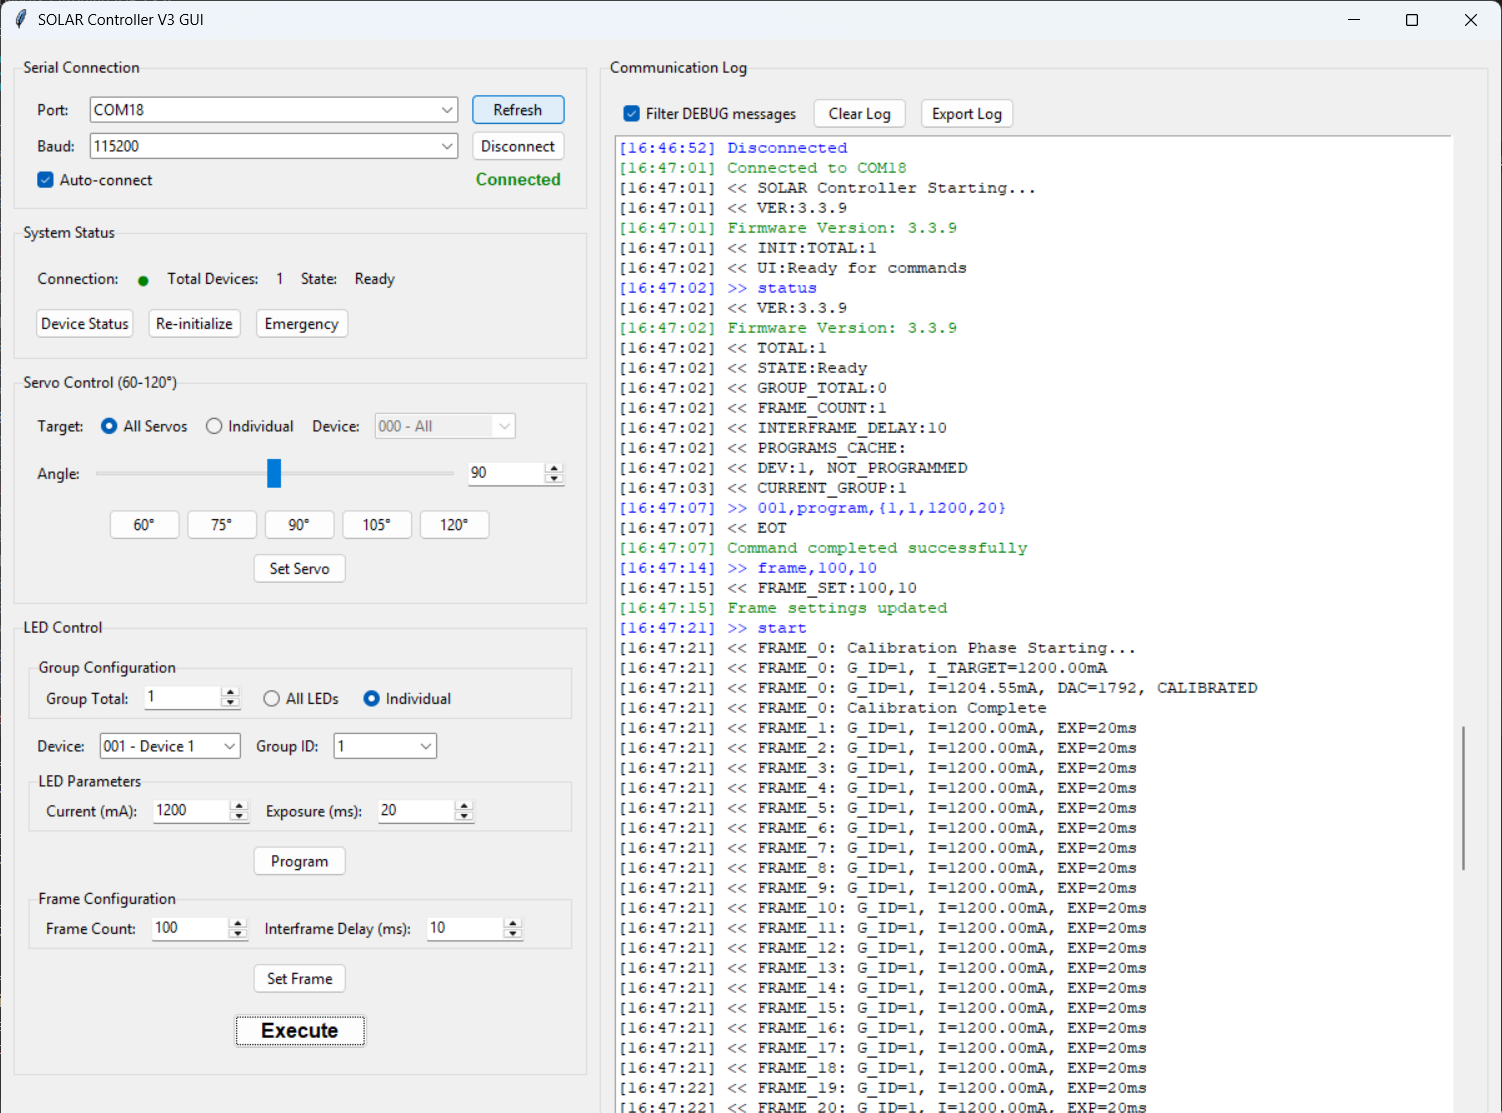
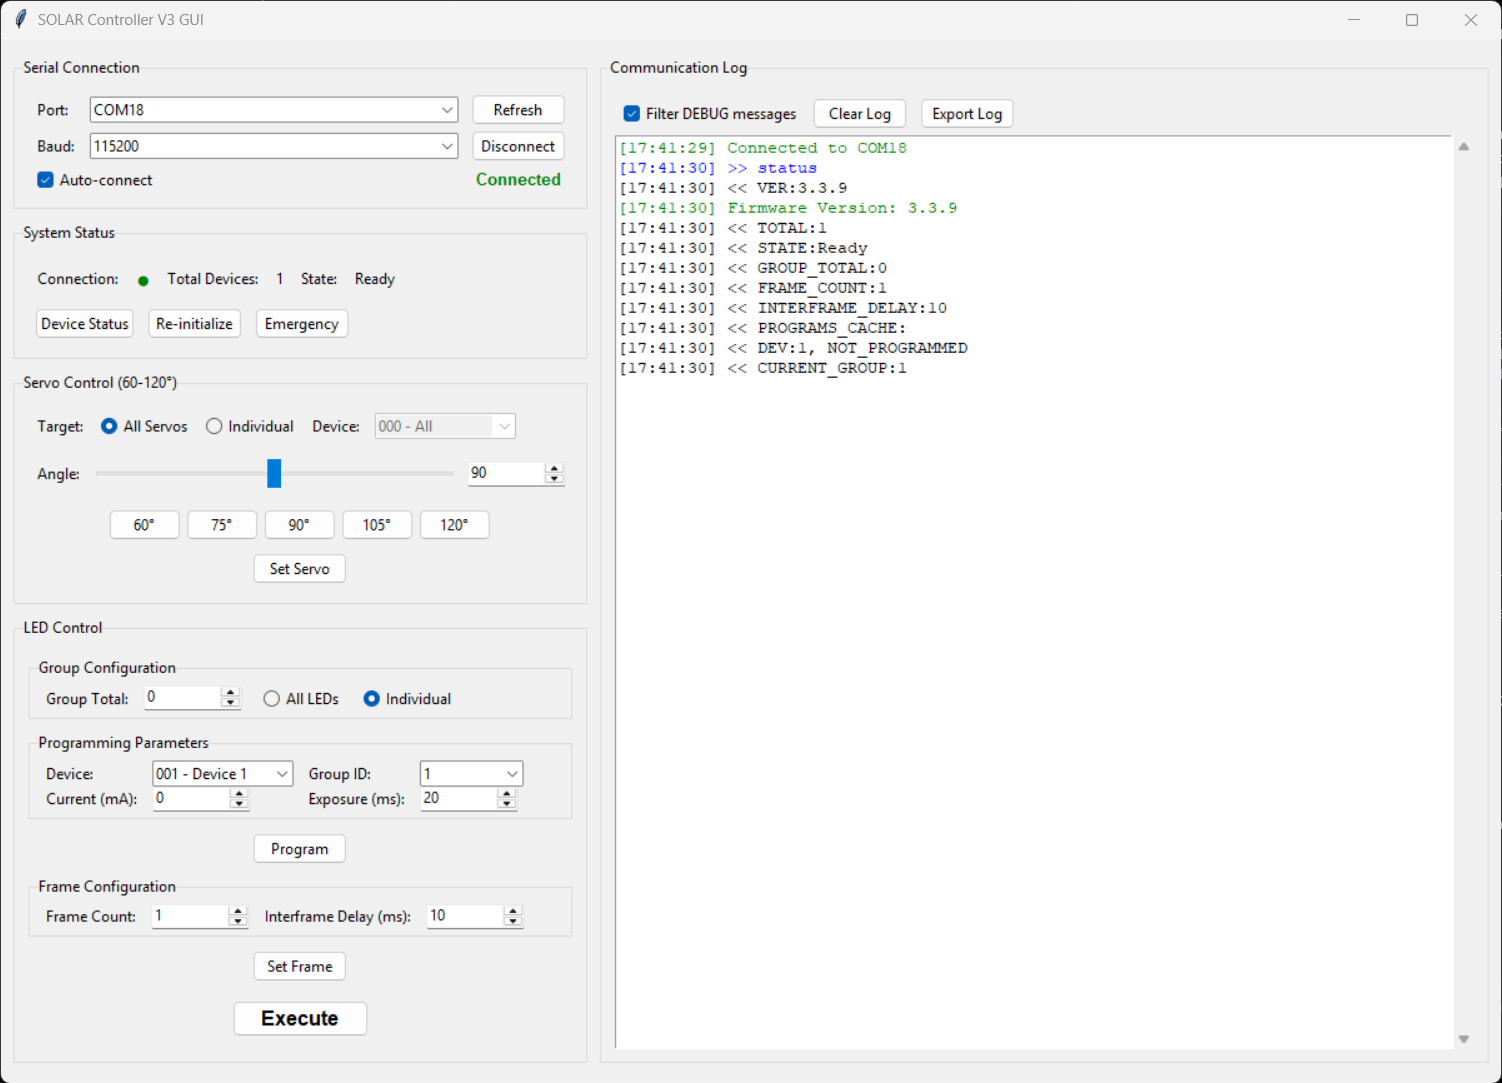
GUI image udpates

diff --git a/SOLAR_GUI_V3.py b/SOLAR_GUI_V3.py
@@ -20,7 +20,7 @@ class SolarController:
     def __init__(self, root):
         self.root = root
         self.root.title("SOLAR Controller V3 GUI")
-        self.root.geometry("1200x900")
+        self.root.geometry("1200x835")
         
         # Serial connection
         self.serial_port = None
